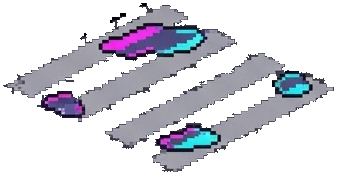
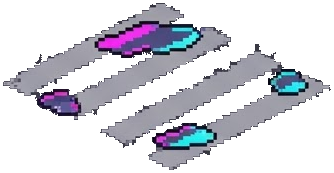
ネオンソファの本体が透過で抜けていた問題を修正
暗い紫の張り地(68,54,89 など)が背景の紺と同系色だったため、縫い目の線から
背景判定が食い込み、さらに影の剥がしと破片除去が本体の陰影ごと持っていって
いた(輪郭内の穴 16.9%)。

cut_props.py にアイテム単位の例外を2つ追加:
- STRICT_BG … 背景判定を「背景と同じ明るさの色」だけに限定する(暗い陰影を守る)
- SAFE_ITEMS … 影の剥がしを1回に制限し、破片除去をしない

tky_sofa に両方を適用して切り直し、穴は 16.9% → 2.4% になった。

diff --git a/tools/cut_props.py b/tools/cut_props.py
@@ -97,6 +97,11 @@ ROWS = 2
 # 背景と同じ紺で塗られた模様(ダイナーのチェッカー柄の黒マス等)を持つ物は、
 # ポケット除去が模様ごと抜いてしまうので除外する。
 NO_POCKET = {'din_rug'}
+# 背景と同系色の暗い陰影を持つ物。通常判定だと縫い目や陰から背景が食い込むので、
+# 「背景と同じ明るさの色」だけを背景とみなす厳しい判定に切り替える。
+STRICT_BG = {'tky_sofa'}
+# 影の剥がしと破片除去が本体の陰影まで持っていく物。影は1回だけ剥がし、破片除去はしない。
+SAFE_ITEMS = {'tky_sofa'}
 PAD = 3          # 切り出し後に足す余白(px)
 ERODE = 2        # 影判定の収縮半径(px)
 BLOB_MIN = 150   # 収縮後にこれだけ残れば「塊」=影
@@ -446,15 +451,15 @@ def main(src_dir, out_dir):
             x0, x1 = max(0, xs[cx] - margin), min(W, xs[cx + 1] + margin)
             y0, y1 = (0, splits[cx]) if cy == 0 else (splits[cx], H)
             cell = Cell(px, x0, y0, x1, y1)
-            cell.fill_from_edges(test)
+            cell.fill_from_edges(make_bg_test(bgc, 0.85) if name in STRICT_BG else test)
             pockets = 0 if name in NO_POCKET else cell.fill_pockets(make_bg_test(bgc, 0.85), 300)
             shadows = []
-            for _ in range(3):
+            for _ in range(1 if name in SAFE_ITEMS else 3):
                 s_ = cell.strip_shadow()
                 if not s_: break
                 shadows.append(s_)
             outside = cell.drop_outside(xs[cx] - x0, xs[cx + 1] - x0)  # のりしろで拾った隣の物を捨てる
-            specks = cell.clean_specks()
+            specks = 0 if name in SAFE_ITEMS else cell.clean_specks()
             minx, miny, maxx, maxy = cell.bbox()
             if maxx < 0:
                 print(f'  !! {name}: 本体が見つからない'); continue
